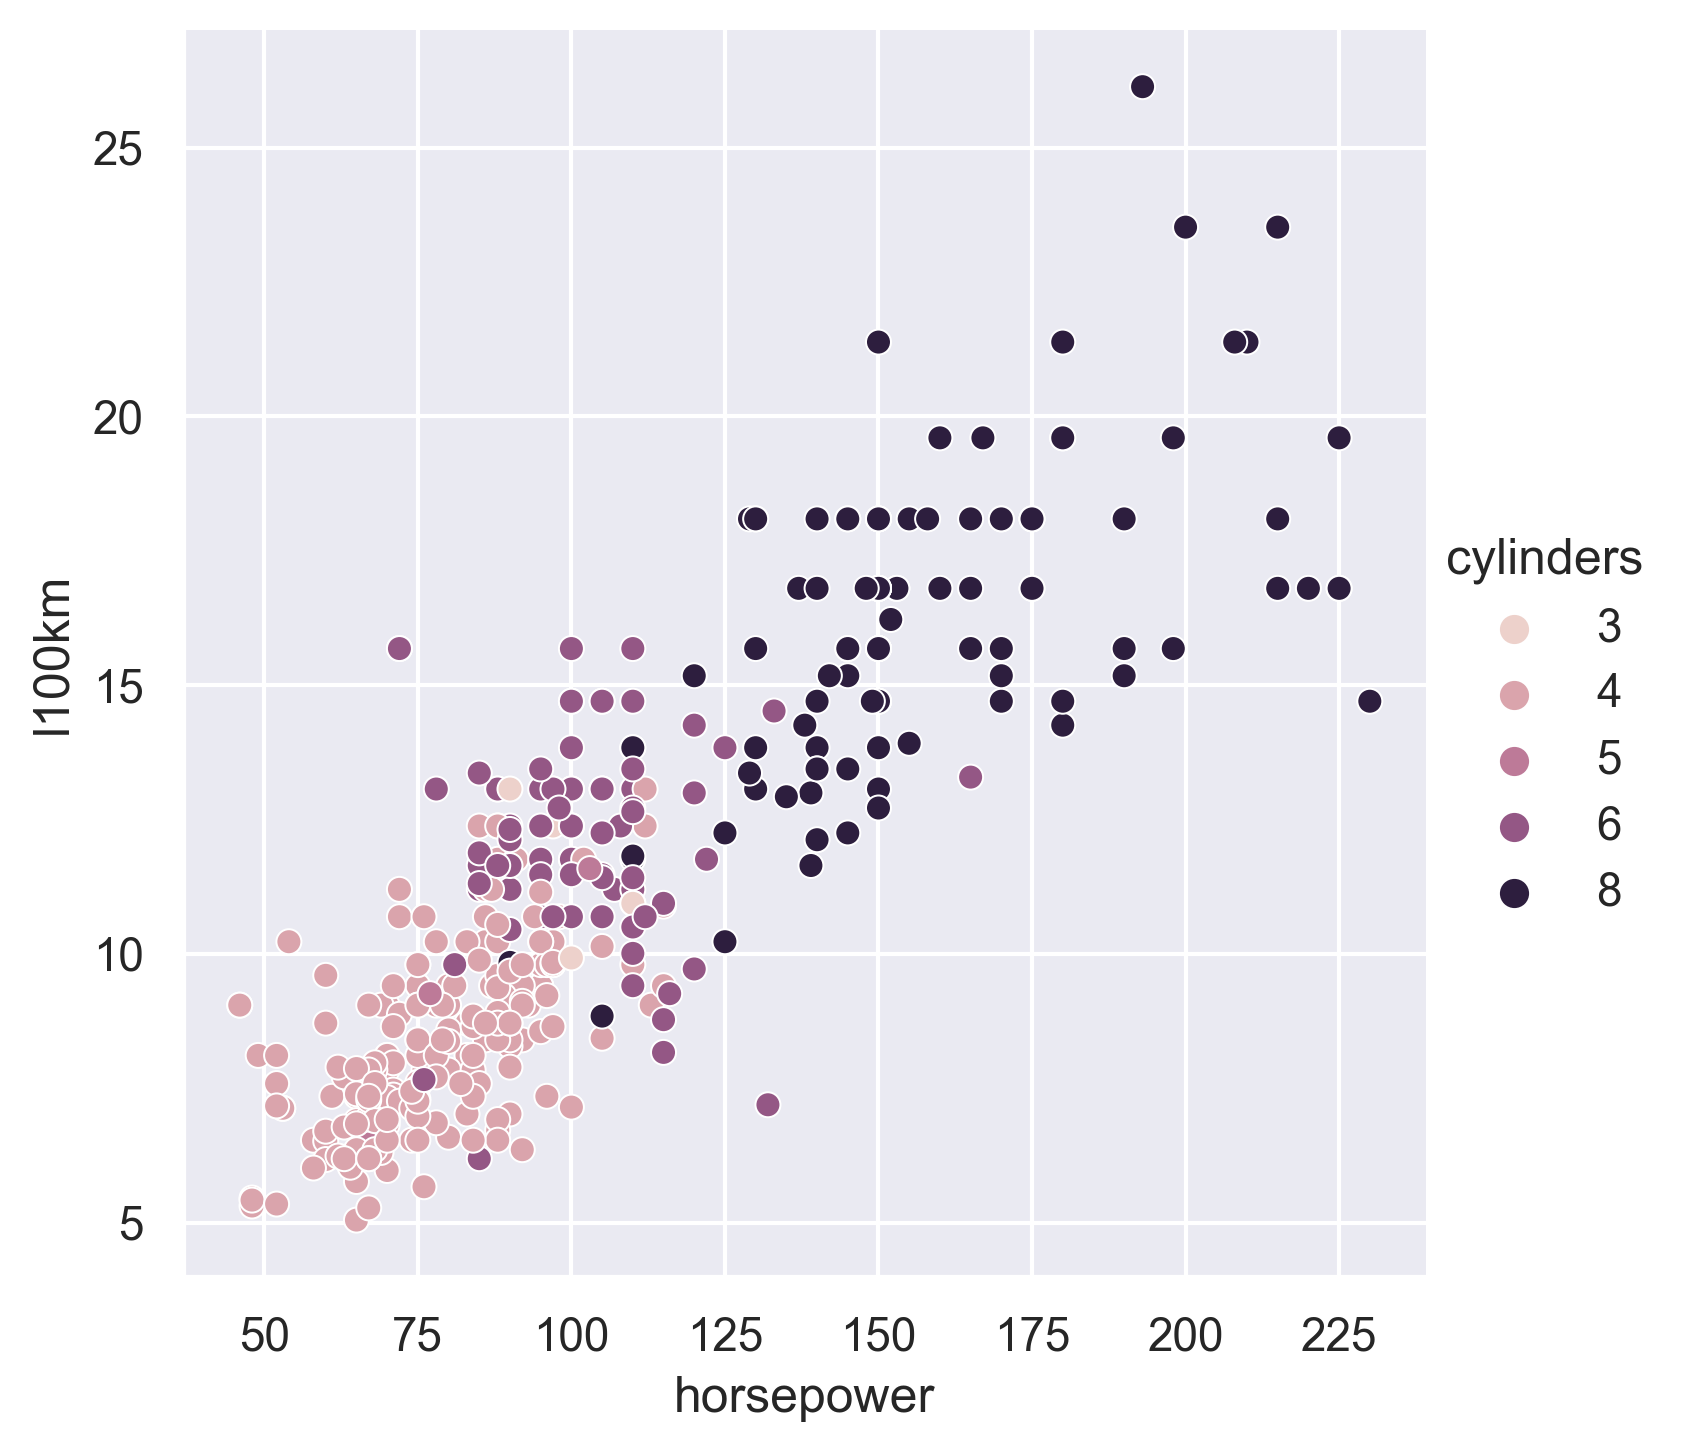
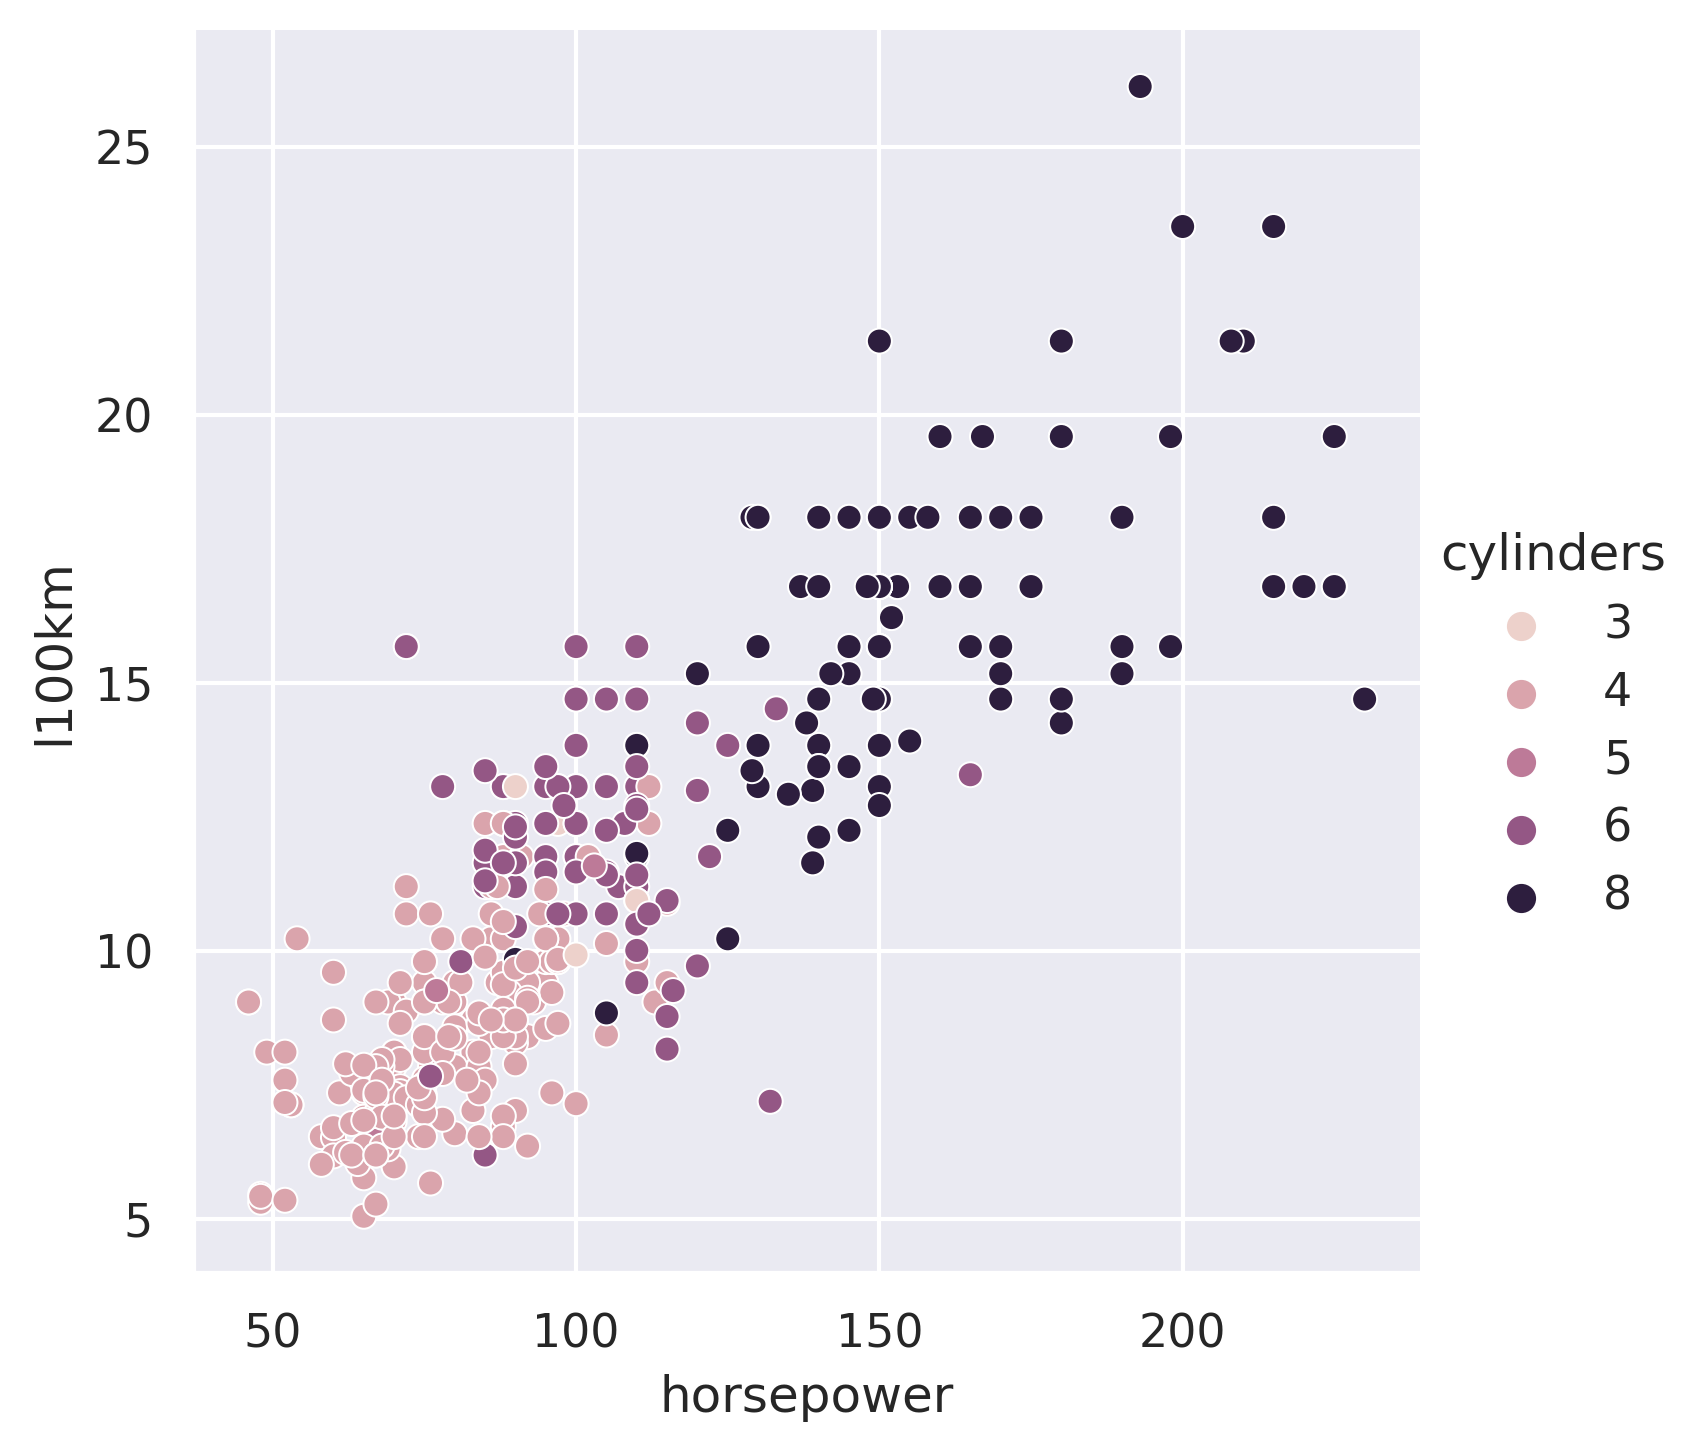
add

diff --git a/main.py b/main.py
@@ -1,0 +1,53 @@
+# %%
+import seaborn as sns
+import pandas as pd
+import numpy as np
+import matplotlib as mpl
+import matplotlib.pyplot as plt
+
+# %%
+df = sns.load_dataset("mpg")
+# %%
+df.columns
+# %%
+miles_to_km = 1.60934
+gallon_to_l = 3.78541
+
+df["kmpl"] = df["mpg"] * miles_to_km / gallon_to_l
+df["l100km"] = 100 / df["kmpl"]
+# %%
+df["cylinders"].value_counts()
+# %%
+# %%
+def LeastSquares(xs, ys):
+    mean_x = np.mean(xs)
+    var_x = np.var(xs)
+    mean_y = np.mean(ys)
+    cov = np.dot(xs - mean_x, ys - mean_y) / len(xs)
+    slope = cov / var_x
+    inter = mean_y - slope * mean_x
+    return inter, slope
+
+
+# %%
+df_clean = df.dropna(subset=["horsepower", "l100km"])
+inter, slope = LeastSquares(df_clean.horsepower, df_clean.l100km)
+# %%
+from pathlib import Path
+
+Path("plots").mkdir(parents=True, exist_ok=True)
+mpl.rcParams["figure.dpi"] = 300
+sns.set_theme()
+scatter1 = sns.relplot(
+    data=df_clean,
+    x="horsepower",
+    y="l100km",
+    style=None,
+    hue="cylinders",
+    markers=None,
+    kind="scatter",
+    col=None,
+)
+scatter1.savefig("plots/scatter.png")
+plt.clf()
+# %%

diff --git a/venv/lib/python3.8/site-packages/libfuturize/main.py b/venv/lib/python3.8/site-packages/libfuturize/main.py
@@ -1,0 +1,1 @@
+/home/runner/.cache/pip/pool/7d/e2/02/99cbf47735a1badbf0cf4ba79c8571bac6d29506450dac4e6e41de6ecf

diff --git a/venv/lib/python3.8/site-packages/libpasteurize/main.py b/venv/lib/python3.8/site-packages/libpasteurize/main.py
@@ -1,0 +1,1 @@
+/home/runner/.cache/pip/pool/75/51/d8/4d041e2689ee3850cdade9c9665fab28780e40a44c3cfd4eaa72688164

diff --git a/venv/lib/python3.8/site-packages/pip/_internal/cli/main.py b/venv/lib/python3.8/site-packages/pip/_internal/cli/main.py
@@ -1,0 +1,1 @@
+/home/runner/.cache/pip/pool/8a/82/7c/21595bd8ad6a2cec51fad5e479ef6551185857cf420ccef530a6a0ed86

diff --git a/venv/lib/python3.8/site-packages/pip/_internal/main.py b/venv/lib/python3.8/site-packages/pip/_internal/main.py
@@ -1,0 +1,1 @@
+/home/runner/.cache/pip/pool/05/9d/2f/91daa0a68b5e4e8d40d50f28bc57bc13380a14958e5233e621441f1826
